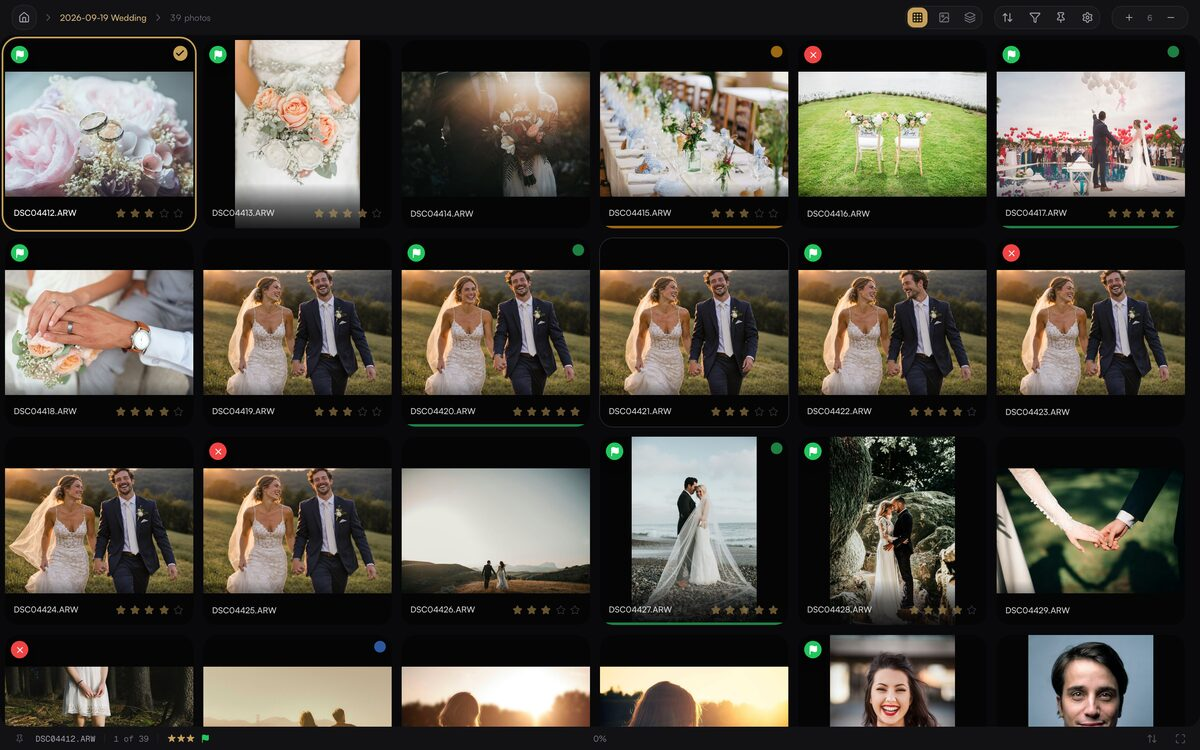
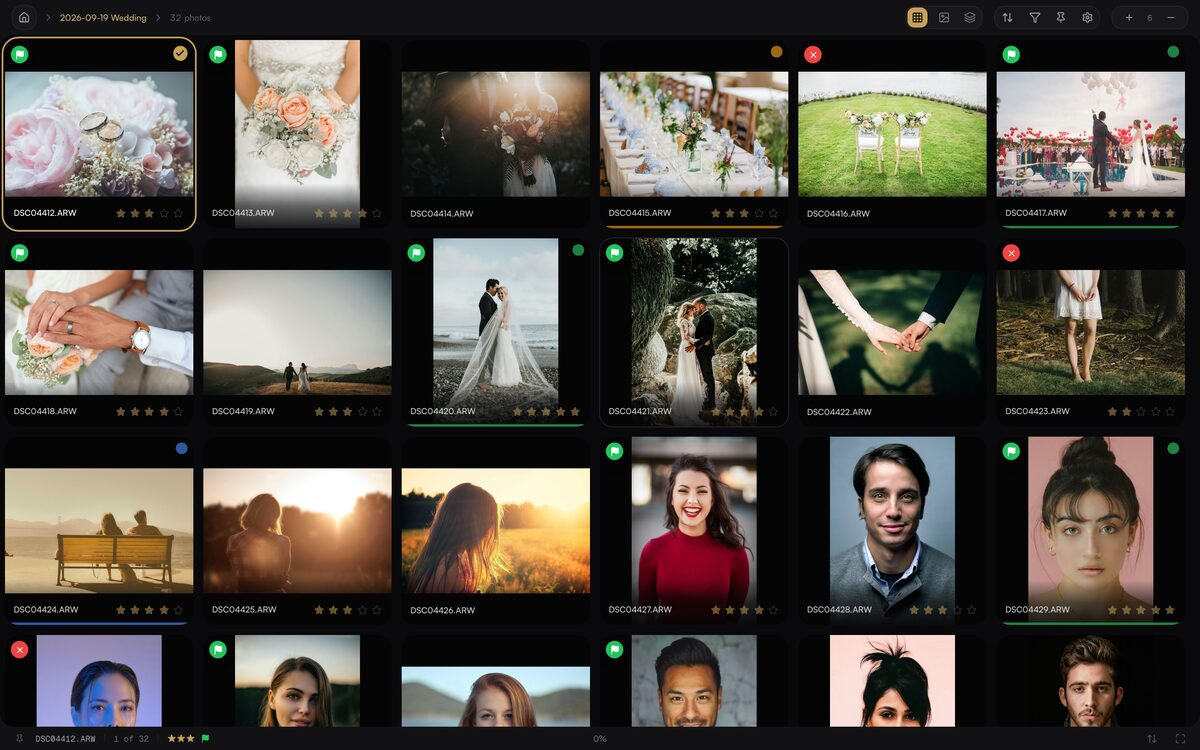
New tagline, earlier hero grid, credits in footer, README rewrite
- Tagline: "Everything you do before Lightroom Classic, in one fast app."
- Hero and og:image go back to the grid without the AI-generated burst.
- Photo credits move from under the hero to the footer.
- README: same plain copy as the site, new screenshot, install and
  licensing sections kept.

diff --git a/docs/index.html b/docs/index.html
@@ -7,13 +7,13 @@
     <title>CullThing</title>
     <meta
       name="description"
-      content="A photo culling app for photographers who finish in Lightroom Classic. Mark Remove fixes while you cull and let Lightroom generate them all in one batch. Downloads for Mac and Windows."
+      content="Everything you do before Lightroom Classic, in one fast app. Mark Remove fixes while you cull and let Lightroom generate them all in one batch. Downloads for Mac and Windows."
     />
     <meta property="og:type" content="website" />
     <meta property="og:title" content="CullThing" />
     <meta
       property="og:description"
-      content="A photo culling app for photographers who finish in Lightroom Classic."
+      content="Everything you do before Lightroom Classic, in one fast app."
     />
     <meta
       property="og:url"
@@ -39,8 +39,8 @@
       rel="stylesheet"
       href="https://api.fontshare.com/v2/css?f[]=satoshi@1&display=swap"
     />
-    <link rel="stylesheet" href="assets/style.css?v=20261123-tour" />
-    <script type="module" src="assets/site.js?v=20261123-tour"></script>
+    <link rel="stylesheet" href="assets/style.css?v=20261123-credits" />
+    <script type="module" src="assets/site.js?v=20261123-credits"></script>
   </head>
   <body>
     <a class="skip-link" href="#main">Skip to content</a>
@@ -64,8 +64,8 @@
           <div>
             <h1>CullThing</h1>
             <p class="lede">
-              A photo culling app for photographers who finish in
-              Lightroom&nbsp;Classic.
+              Everything you do before Lightroom&nbsp;Classic, in one fast
+              app.
             </p>
             <p class="body">
               Go through a shoot scene by scene, check faces and focus, and
@@ -133,10 +133,6 @@
             height="1200"
             alt="CullThing's grid view of a wedding shoot, with star ratings, pick and reject flags and color labels."
           />
-          <figcaption class="faint">
-            Sample photos from Unsplash and Lorem Picsum. The burst of the
-            couple walking is AI-generated.
-          </figcaption>
         </figure>
 
         <!-- Culling -->
@@ -616,6 +612,7 @@
 
       <footer class="footer faint">
         <span>CullThing <span class="mono" data-release-version>0.9.12</span></span>
+        <span class="credits">Sample photos from Unsplash and Lorem Picsum; the burst in Scenes is AI-generated.</span>
         <nav aria-label="Footer">
           <a href="https://github.com/andrei930/cullthing-releases">GitHub</a>
           <a href="https://github.com/andrei930/cullthing-releases/issues"

diff --git a/README.md b/README.md
@@ -2,169 +2,60 @@
 
 # CullThing
 
-**From memory card to selects, edits, and Lightroom.**
+Everything you do before Lightroom Classic, in one fast app. Go through a shoot scene by scene, check faces and focus, and rate from the keyboard. Brush out distractions while you cull, and Lightroom generates every removal in one batch instead of making you wait on each photo.
 
-CullThing is a desktop app for photographers working through large RAW shoots. Review photos by scene, find your keepers, prepare Remove adjustments, and give a whole shoot a starting edit with EditThing.
+**[Website and tour](https://andrei930.github.io/cullthing-releases/)** · [Release notes](https://github.com/andrei930/cullthing-releases/releases) · [Report an issue](https://github.com/andrei930/cullthing-releases/issues)
 
-**[Visit the CullThing website](https://andrei930.github.io/cullthing-releases/)** · [Latest release & notes](https://github.com/andrei930/cullthing-releases/releases/latest) · [Report an issue](https://github.com/andrei930/cullthing-releases/issues)
+![CullThing's grid view of a sample wedding](docs/assets/web/grid.webp)
 
-## Download and install
+## Download
 
 **Current release: [CullThing v0.9.12](https://github.com/andrei930/cullthing-releases/releases/latest)**
 
-| Platform    | Download installer                                                                                                                              | Requirements                             |
-| ----------- | ----------------------------------------------------------------------------------------------------------------------------------------------- | ---------------------------------------- |
-| **macOS**   | **[Download for Mac (.dmg)](https://github.com/andrei930/cullthing-releases/releases/download/app-v0.9.12/CullThing_0.9.12_aarch64.dmg)**       | Apple Silicon (M1 or newer), macOS 13.4+ |
-| **Windows** | **[Download for Windows (.exe)](https://github.com/andrei930/cullthing-releases/releases/download/app-v0.9.12/CullThing_0.9.12_x64-setup.exe)** | 64-bit Intel/AMD                         |
+| Platform    | Installer                                                                                                                                       | Requirements                       |
+| ----------- | ----------------------------------------------------------------------------------------------------------------------------------------------- | ---------------------------------- |
+| **macOS**   | **[Download for Mac (.dmg)](https://github.com/andrei930/cullthing-releases/releases/download/app-v0.9.12/CullThing_0.9.12_aarch64.dmg)**       | Apple Silicon, macOS 13.4 or later |
+| **Windows** | **[Download for Windows (.exe)](https://github.com/andrei930/cullthing-releases/releases/download/app-v0.9.12/CullThing_0.9.12_x64-setup.exe)** | 64-bit Intel/AMD                   |
 
-On Mac, you can also use the **[one-command installer](#quick-install-with-terminal)** to download and install the app. It handles the first-launch quarantine step for you.
+These are test builds and aren't signed yet, so macOS and Windows warn the first time you open CullThing. The [Mac](#installing-on-macos) and [Windows](#installing-on-windows) steps below explain what to do. On a Mac, the [Terminal installer](#quick-install-with-terminal) handles it for you.
 
-These links download the installer files directly. [Browse the latest release](https://github.com/andrei930/cullthing-releases/releases/latest) for all files and release notes. Intel Mac and Windows ARM builds are not currently provided.
+Already installed? Choose **Check for Updates…** in the app menu.
 
-1. **Download** the installer for your computer.
-2. **Install** using the [macOS instructions](#installing-on-macos) or [Windows instructions](#installing-on-windows) below. Current test builds may show an operating-system security warning; the steps below explain what to expect.
-3. **Launch CullThing**, then open a folder of photos to start culling, or choose **EditThing** on the home screen to set up an editing profile.
+Files ending in `.app.tar.gz` and `.sig`, and `latest.json`, are for the updater, not for installing. Download CullThing only from this repository.
 
-Already installed? Use **Check for Updates…** in the application menu.
+## What it does
 
-Files ending in `.app.tar.gz`, `.sig`, and `latest.json` belong to the updater, not a normal installation. Download only from this official repository or a link supplied directly by the developer. Draft releases are still being tested.
+### Culling
 
-![CullThing photo grid with demo images](docs/assets/cullthing-grid-desktop.png)
+- **Scenes.** The shoot is grouped into scenes wherever there's a gap between shots. Change the gap (2 seconds to 5 minutes), add visual similarity, cap the photos per scene, or split by lens, camera body, folder or orientation.
+- **Faces, eyes and focus.** The face panel shows each face enlarged with a focus score from 1 to 10. Analyze Eyes marks eyes as open, partly closed or closed. The zoom key jumps to the sharpest face or the camera's focus point and stays there as you step through a burst.
+- **Camera clocks.** Align Timelines puts each camera body on its own lane so you can drag, nudge or let Suggest line up the moments. Sync from one shared moment, type an offset, or reuse saved offsets from the Clock library.
+- **Fast, and laid out your way.** The next photo is prepared before you get to it. Every panel can be resized, moved to either side or hidden.
+- **Keys and mouse.** The default keys follow Lightroom (0–5 stars, P/X/U flags, 6–9 color labels) and every shortcut can be changed. The mouse's back and forward buttons and the scroll wheel are configurable too.
 
-_The real CullThing interface with sample photos and illustrative data. No personal photo library is shown._
+### Remove, in one batch
 
-## More than culling
+In Lightroom Classic, Generative Remove makes you wait on each photo. In CullThing you brush distractions while you cull, and the marks are saved as Lightroom Remove instructions in each photo's XMP. In Lightroom you select the shoot and choose **Update AI Settings** once, and it generates every removal in one batch.
 
-- **Review your way.** Switch between a photo grid, scenes, and a single-image view. Navigate with the keyboard, compare similar frames, and inspect faces, focus, and eye status.
-- **Make your selects.** Use star ratings, color labels, pick/reject flags, filters, and sorting. Find a specific file with **⌘F / Ctrl+F**. Keep culling decisions alongside your photos in XMP sidecars.
-- **Crop, straighten, and expand.** Set framing and leveling with XMP adjustments, or use **Generative Expand** to prepare a DNG copy with a larger frame. Lightroom generates the new edges.
-- **Prepare removals.** Brush over distractions in **Remove mode**, use auto-mark suggestions, copy marks between photos, and group touching marks into one removal. CullThing saves Lightroom-compatible AI-update instructions; **Lightroom Classic generates the removal result**.
-- **Edit a shoot with EditThing.** Start from a Lightroom preset with an **Instant** profile, or train a **Personal** profile from your own edited photos. Try a profile on a few images, apply it across a shoot, adjust its behavior, and undo an edit run.
-- **Bring in your cards.** **Card Manager** lets you review and copy photos from memory cards to your chosen destinations.
-- **Cull from another device.** Enable **Remote Access** on the desktop, then pair a phone or tablet on the same network to review a project or the library in its browser.
-- **Continue in Lightroom Classic.** Carry ratings, labels, crops, and Remove instructions through XMP. EditThing can write develop settings to sidecars or work with an open catalog through the included Lightroom Classic plug-in.
+Auto-mark can add the marks for you: wires and cables, exit signs, power outlets and other common objects, or anything you type. Suggestions stay out of Lightroom until you accept them, and auto-mark never changes marks you painted yourself.
 
-## Clean up as you cull
+### How it fits with Lightroom Classic
 
-**Remove mode lets you prepare distractions for removal while you are already reviewing the shoot.** Brush over a stray cable, sign, or other unwanted object, then move straight to the next frame. CullThing saves the marks as Lightroom-compatible AI-update instructions; Lightroom Classic generates the actual removal when you update AI settings.
+1. Copy the cards with Card Manager.
+2. Cull in CullThing. Ratings, color labels, crops, angles and Remove marks are saved to XMP next to each RAW.
+3. Start the edit with EditThing, which writes develop settings to the XMP, or into an open catalog with the Lightroom plug-in.
+4. Import the folder into Lightroom, or choose **Metadata → Read Metadata from Files** if it's already in your catalog.
+5. Select the shoot and choose **Update AI Settings**. Removals and Generative Expand edges are generated in one batch.
 
-- **Spot it once, mark it now.** Keep your filmstrip available so cleanup preparation stays part of the culling pass, without reopening every keeper later just to find the same distractions.
-- **Reuse the work.** Copy and paste marks between similarly framed photos, then refine them. Group strokes that describe one object into a single removal.
-- **Let auto-mark do the first pass.** Choose common distractions such as wires, exit signs, or background cars, or describe an object. Review the suggested marks and accept the ones you want.
-- **Keep your hands moving.** Pan, brush, erase, and resize with configurable modifiers, the wheel, or shortcuts, with fewer trips to the toolbar.
+### EditThing
 
-You spend less time repeating selection work and switching between culling and cleanup. The original RAW stays intact; Lightroom remains the place to review and generate the final result.
+A free first edit in your style that runs on your computer. Build a Personal profile from photos you've already edited, or an Instant profile from a Lightroom preset and nine questions. Try it on about 10 copies and fix them in Lightroom; EditThing saves the changes you made consistently as adjustments to the profile. Repeat until it looks like your work, then apply it to the shoot. EditThing needs [Adobe DNG Converter](https://helpx.adobe.com/camera-raw/desktop/dng-and-file-formats/adobe-dng-converter.html) and downloads its models during first-time setup.
 
-## A visual tour
+### Also
 
-Screenshots show the real interface with sample photos, neutral project names, and illustrative analysis and Lightroom feedback data. They demonstrate the controls, not measured analysis results for these sample photos.
+Cull from a phone or tablet with Remote Access, check coverage with Folder Stats, and find a photo by filename with **⌘F / Ctrl+F**.
 
-<details open>
-<summary><strong>Review and arrange your workspace</strong></summary>
-
-Pick a layout for the way you review. Keep the controls within reach, inspect the details, or clear the screen for the photograph.
-
-### A filmstrip beside the photograph
-
-Keep neighboring frames in a vertical filmstrip, with the floating rating and flag bar centered beneath the photograph. Floating navigation arrows are off for this desktop layout.
-
-![A filmstrip beside the photograph](docs/assets/review-filmstrip-left-desktop.png)
-
-### A filmstrip below the photograph
-
-Switch to a horizontal filmstrip. This view has the floating action bar and navigation buttons switched off, leaving the image clear.
-
-![A filmstrip below the photograph](docs/assets/review-filmstrip-bottom-desktop.png)
-
-### Review one scene at a time
-
-The scene navigator groups the shoot into moments; the neighboring strip shows the frames in the selected scene. Move between moments without losing your place.
-
-![Review one scene at a time](docs/assets/review-scenes-desktop.png)
-
-### Faces, focus, eyes, and the shot details
-
-Inspect the magnified face panel, the focus score, and eye status together. The info panel on the opposite side shows ratings, labels, camera, lens, exposure, and capture information. Eye status appears after Analyze Eyes.
-
-![Faces, focus, eyes, and the shot details](docs/assets/review-faces-info-desktop.png)
-
-### Put each panel where it works for you
-
-Dock the filmstrip left, right, or along the bottom. Move the scene navigator, face panel, and info panel to either side. Center the floating action bar or hide it; navigation arrows can be enabled when using a tablet.
-
-![Put each panel where it works for you](docs/assets/workspace-settings-desktop.png)
-
-### Let the photograph fill the view
-
-Hide the filmstrip and panels, switch off the floating controls, and hide the interface bars. Top and status bars can also auto-hide and reappear at the screen edge.
-
-![Let the photograph fill the view](docs/assets/review-clean.png)
-
-</details>
-
-<details open>
-<summary><strong>Crop, straighten, expand, and prepare removals</strong></summary>
-
-Prepare the framing and the cleanup while you are still reviewing. Crop and level adjustments stay in metadata; Lightroom Classic generates Remove results and expanded edges.
-
-### A workspace built for marking distractions
-
-Brush, select, copy, paste, and group Remove marks while the filmstrip stays available. Adjust brush size, scroll resize speed, and overlay opacity; touching marks can become one removal automatically.
-
-![A workspace built for marking distractions](docs/assets/remove-mode-desktop.png)
-
-### Pan, brush, and erase without hunting for tools
-
-Switch between Pan, Add, and Erase, or stay in Pan and use the configured modifiers to brush and erase. Resize with the wheel, pinch, or shortcuts. The in-app guide explains selection and grouping; modifiers are configurable.
-
-![Pan, brush, and erase without hunting for tools](docs/assets/remove-controls-desktop.png)
-
-### Frame the shot before the handoff
-
-Use aspect presets, lock the ratio, flip the orientation, and drag the crop handles with a composition grid. Apply the crop to XMP without replacing the original photo.
-
-![Frame the shot before the handoff](docs/assets/crop-mode-desktop.png)
-
-### Level the frame with room to fine-tune
-
-Use Straighten for an automatic angle, adjust the Level slider yourself, and reset the crop and angle independently. The example shows a demo angle with the crop kept inside the rotated photo.
-
-![Level the frame with room to fine-tune](docs/assets/straighten-mode-desktop.png)
-
-### Give the photograph more room
-
-Extend the frame beyond the original boundaries with Generative Expand. CullThing prepares a DNG copy; use Update AI Settings in Lightroom to generate the added edges. The white border shown here is the area awaiting generation.
-
-![Give the photograph more room](docs/assets/generative-expand-desktop.png)
-
-</details>
-
-<details open>
-<summary><strong>EditThing: profiles, projects, and Lightroom feedback</strong></summary>
-
-Choose how EditThing learns your look, keep shoots organized as projects, and confirm the changes it detects from your Lightroom trial edits.
-
-### Choose where your look comes from
-
-Instant starts with a Lightroom preset and nine taste questions. Personal learns from your edited catalogs or RAW + XMP folders. If you are unsure, EditThing can inspect your edited photos and recommend a profile type.
-
-![Choose where your look comes from](docs/assets/editthing-profile-choices.png)
-
-### Keep each shoot and its progress together
-
-See the profile assigned to each project and which shoots are drafts, paused, or done. Open a project to continue editing; pause and resume work when you need to.
-
-![Keep each shoot and its progress together](docs/assets/editthing-projects.png)
-
-### Edit in Lightroom. Confirm what EditThing finds.
-
-While the trial panel is open, EditThing watches the trial edits. With the Lightroom plug-in connected, it reads the changes without a separate XMP save. Consistent changes are preselected; mixed changes stay unchecked. Review the detected shifts, then confirm Save as adjustments and rewrite. This screen uses illustrative demo changes.
-
-![Edit in Lightroom. Confirm what EditThing finds.](docs/assets/editthing-lightroom-feedback-varied.png)
-
-</details>
-
-EditThing processes photos locally. First-time setup downloads its models and requires [Adobe DNG Converter](https://helpx.adobe.com/camera-raw/desktop/dng-and-file-formats/adobe-dng-converter.html). Try a profile on a small set before applying it to a shoot, then finish the photos in Lightroom Classic.
+Screenshots use sample photos from Unsplash and Lorem Picsum, plus one AI-generated burst. See [SCREENSHOTS.md](SCREENSHOTS.md).
 
 ## Availability
 

diff --git a/SCREENSHOTS.md b/SCREENSHOTS.md
@@ -6,7 +6,7 @@ The home page uses WebP copies in `docs/assets/web/`. They were captured from th
 
 | File | Shows |
 | --- | --- |
-| `grid.webp` | Grid view of the sample wedding (hero) |
+| `grid.webp` | Grid view of the sample wedding (hero), captured before the burst was added |
 | `scenes.webp` | Scenes view with the seven-frame burst selected |
 | `scene-settings.webp` | Scene Settings dialog |
 | `faces.webp` | Face panel with focus score and eye status, info panel |
@@ -17,7 +17,7 @@ The home page uses WebP copies in `docs/assets/web/`. They were captured from th
 | `layout.webp` | Animation: panels resized by dragging, then hidden |
 | `crop-mode-desktop.webp`, `straighten-mode-desktop.webp`, `generative-expand-desktop.webp`, `editthing-profile-choices.webp` | WebP copies of the earlier captures below |
 
-The seven-frame burst of the couple walking was generated with an image model (GPT image generation via Codex) so the Scenes view has realistic near-identical frames; the website caption says so. Other sample photos: Unsplash (`photo-1515934751635-c81c6bc9a2d8`, `photo-1525258946800-98cfd641d0de`, `photo-1519741497674-611481863552`, `photo-1519225421980-715cb0215aed`, `photo-1522673607200-164d1b6ce486`, `photo-1511285560929-80b456fea0bc`, `photo-1465495976277-4387d4b0b4c6`, `photo-1532712938310-34cb3982ef74`, `photo-1537633552985-df8429e8048b`, `photo-1541250848049-b4f7141dca3f`, `photo-1520854221256-17451cc331bf`, `photo-1494790108377-be9c29b29330`, `photo-1500648767791-00dcc994a43e`, `photo-1531746020798-e6953c6e8e04`, `photo-1534528741775-53994a69daeb`, `photo-1544005313-94ddf0286df2`, `photo-1438761681033-6461ffad8d80`, `photo-1507003211169-0a1dd7228f2d`, `photo-1488426862026-3ee34a7d66df`, `photo-1506794778202-cad84cf45f1d`, `photo-1529626455594-4ff0802cfb7e`, `photo-1508214751196-bcfd4ca60f91`, `photo-1539571696357-5a69c17a67c6`, `photo-1503185912284-5271ff81b9a8`, `photo-1502685104226-ee32379fefbe`, `photo-1583939003579-730e3918a45a`, `photo-1606216794074-735e91aa2c92`) and Lorem Picsum ([325](https://picsum.photos/id/325/info), [129](https://picsum.photos/id/129/info), [399](https://picsum.photos/id/399/info), [65](https://picsum.photos/id/65/info), [351](https://picsum.photos/id/351/info)), used under the Unsplash License.
+The seven-frame burst of the couple walking was generated with an image model (GPT image generation via Codex) so the Scenes view has realistic near-identical frames; the website footer says so. Other sample photos: Unsplash (`photo-1515934751635-c81c6bc9a2d8`, `photo-1525258946800-98cfd641d0de`, `photo-1519741497674-611481863552`, `photo-1519225421980-715cb0215aed`, `photo-1522673607200-164d1b6ce486`, `photo-1511285560929-80b456fea0bc`, `photo-1465495976277-4387d4b0b4c6`, `photo-1532712938310-34cb3982ef74`, `photo-1537633552985-df8429e8048b`, `photo-1541250848049-b4f7141dca3f`, `photo-1520854221256-17451cc331bf`, `photo-1494790108377-be9c29b29330`, `photo-1500648767791-00dcc994a43e`, `photo-1531746020798-e6953c6e8e04`, `photo-1534528741775-53994a69daeb`, `photo-1544005313-94ddf0286df2`, `photo-1438761681033-6461ffad8d80`, `photo-1507003211169-0a1dd7228f2d`, `photo-1488426862026-3ee34a7d66df`, `photo-1506794778202-cad84cf45f1d`, `photo-1529626455594-4ff0802cfb7e`, `photo-1508214751196-bcfd4ca60f91`, `photo-1539571696357-5a69c17a67c6`, `photo-1503185912284-5271ff81b9a8`, `photo-1502685104226-ee32379fefbe`, `photo-1583939003579-730e3918a45a`, `photo-1606216794074-735e91aa2c92`) and Lorem Picsum ([325](https://picsum.photos/id/325/info), [129](https://picsum.photos/id/129/info), [399](https://picsum.photos/id/399/info), [65](https://picsum.photos/id/65/info), [351](https://picsum.photos/id/351/info)), used under the Unsplash License.
 
 ## Earlier captures (README)
 

diff --git a/MAINTENANCE.md b/MAINTENANCE.md
@@ -8,7 +8,7 @@ The application source remains in the private CullThing repository. This public 
 - The README and home page link directly to the published Mac `.dmg` and Windows `x64-setup.exe`. Keep downloads above the first screenshot. When publishing a new stable release, update these static asset URLs and the displayed release version in `README.md` and `docs/index.html`; verify both files are uploaded first.
 - The home page also refreshes all `data-download` links from the latest release API. If JavaScript or that API is unavailable, the static download links still work. The optional `docs/download/` route resolves the latest installers too, with a link to the GitHub release page if lookup fails.
 - Screenshots show the real application frontend with illustrative mock data, captured on 2026-11-22. Sample photos come from [Lorem Picsum](https://picsum.photos/) and [Unsplash](https://unsplash.com/); no user library or private application source is published.
-- The home page shows screenshots as WebP files in `docs/assets/web/` (at most 1920 px wide, `cwebp -q 82 -resize 1920 0`), about 1.2 MB of stills plus the 2 MB `layout.webp` animation, which is lazy-loaded. The full-size PNGs stay for the README and `og:image`. When a screenshot changes, regenerate its WebP copy. See [SCREENSHOTS.md](SCREENSHOTS.md) for capture intent and demo-data notes.
+- The home page shows screenshots as WebP files in `docs/assets/web/` (at most 1920 px wide, `cwebp -q 82 -resize 1920 0`), about 1.2 MB of stills plus the 2 MB `layout.webp` animation, which is lazy-loaded. The README shows the same WebP files; `docs/assets/og.jpg` (1200×750) is the link-preview image. The older full-size PNGs are kept for reference. When a screenshot changes, regenerate its WebP copy. See [SCREENSHOTS.md](SCREENSHOTS.md) for capture intent and demo-data notes.
 - "What's new" on the home page is written by hand for the release named in its `data-release-tag`. When a newer stable release is published, `site.js` replaces it with the release's own notes (`docs/assets/notes.mjs`, tested in `scripts/notes.test.mjs`), and updates the version and date. When you update the static links for a release, rewrite the hand-written notes and the tag too.
 - Text uses Satoshi, loaded from Fontshare's CSS API as its free licence asks; do not copy the Satoshi font file into this public repository. Geist Mono (OFL) is self-hosted in `docs/assets/fonts/`. Colours follow the app's theme (`#c5a059` accent).
 - Keep the installation warnings in sync with the actual signing/notarization status of published builds.
